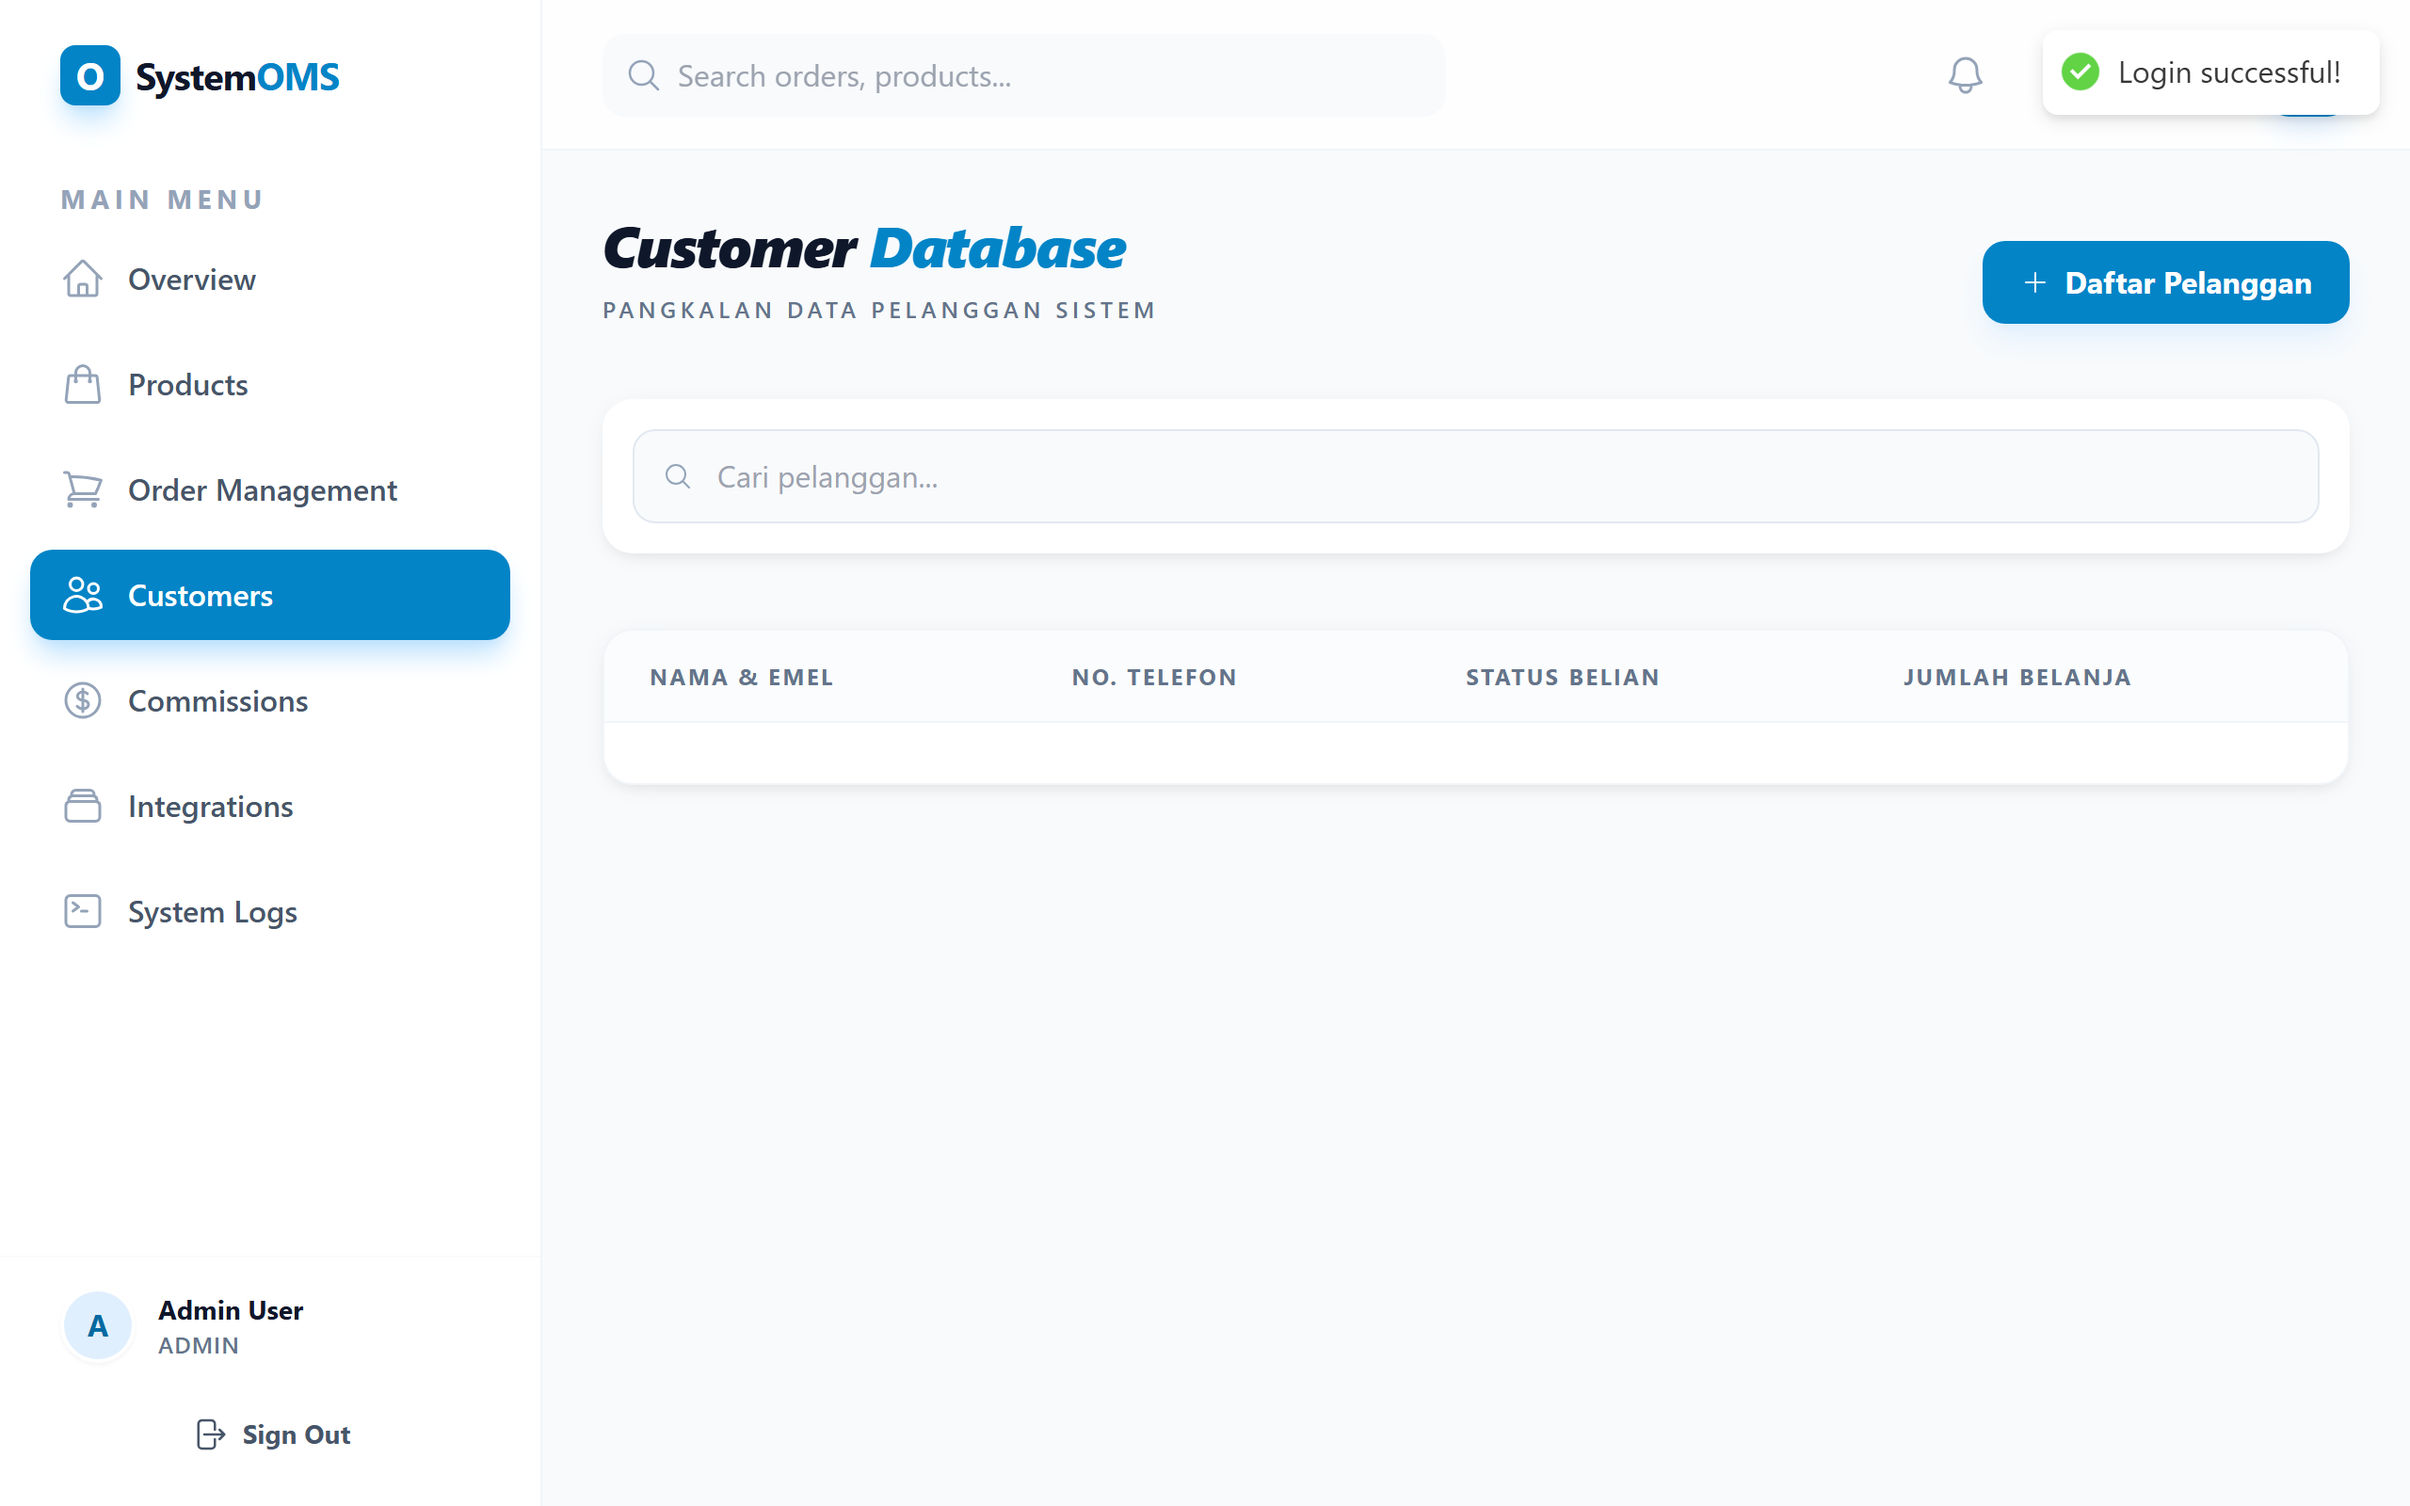
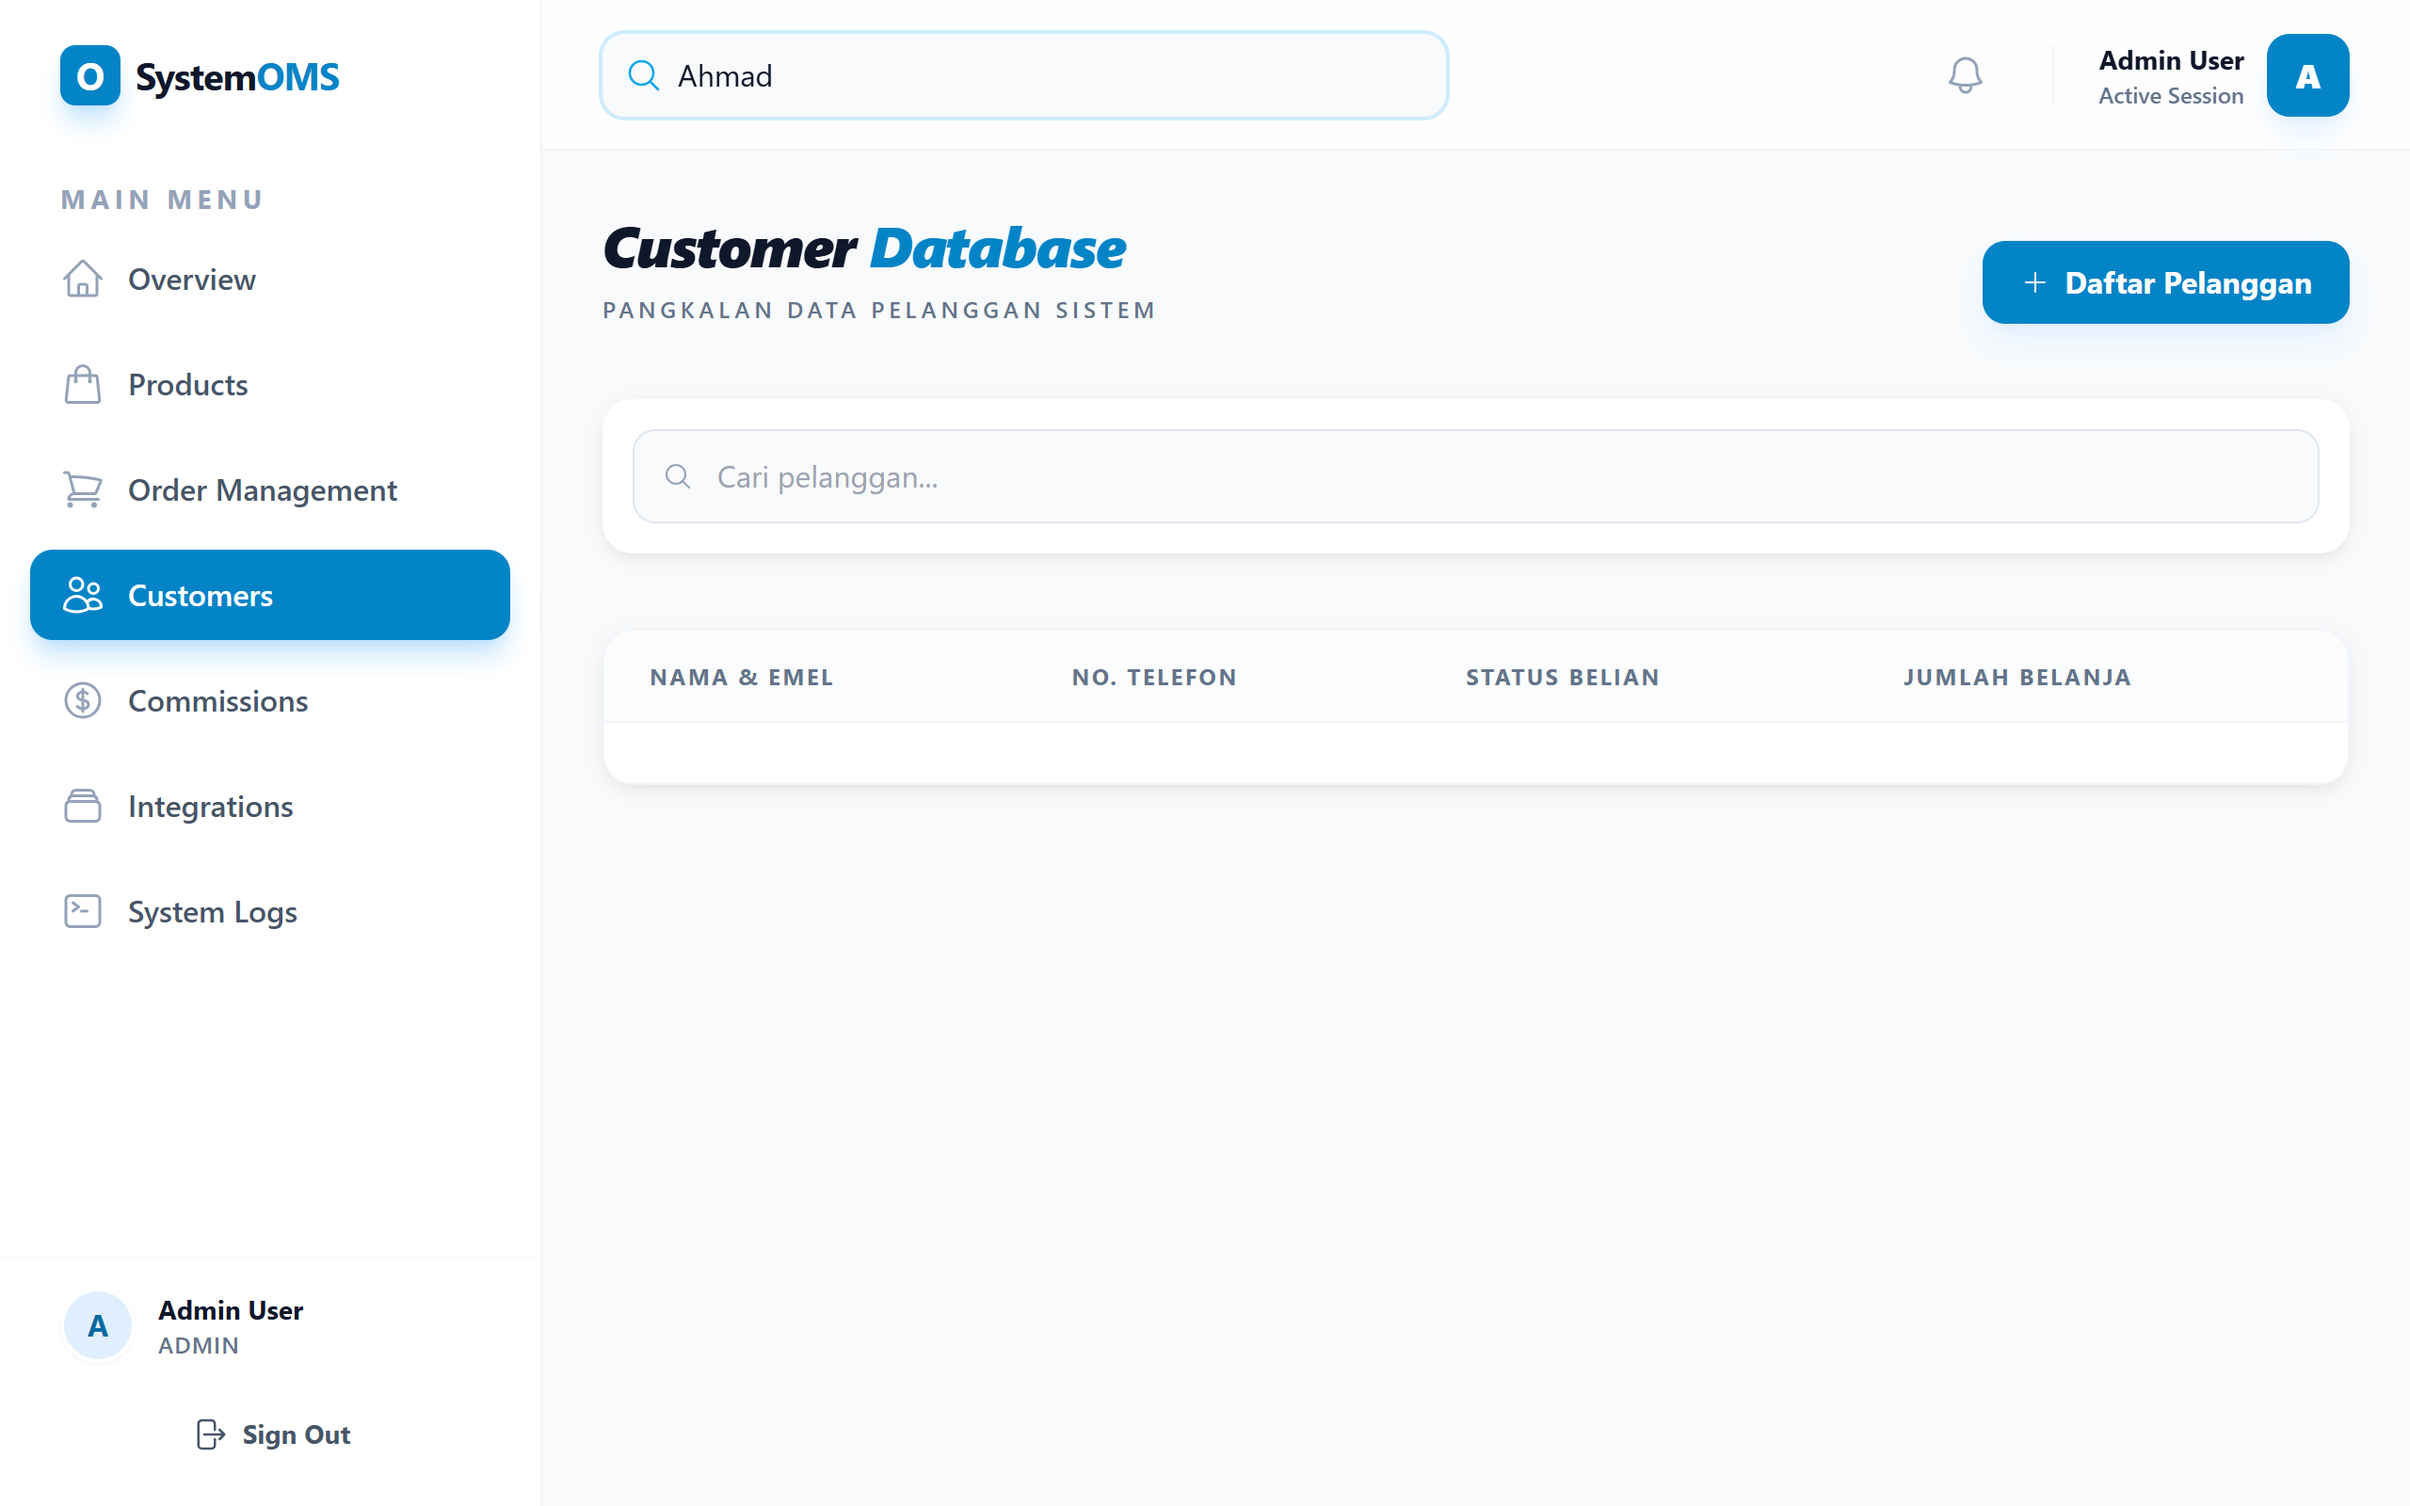
feat: update screenshots to show functionality and interactions in use

Changed region(s): [[0.8438, 0.0, 1.0, 0.0938], [0.2812, 0.0312, 0.4062, 0.0625]]

diff --git a/tests/screenshots.spec.js b/tests/screenshots.spec.js
@@ -58,21 +58,41 @@ test.describe('Visual Documentation Screenshots', () => {
       await takeCleanScreenshot(page, '01-dashboard.png');
     });
 
-    test('Capture Products Page and Add Product Modal', async ({ page }) => {
+    test('Capture Products Page with Interactions', async ({ page }) => {
       await page.click('text=Products');
       await page.waitForURL('/products');
+      
+      // Hover over a product card to show actions
+      const productCard = page.locator('.premium-card, [class*="card"]').first();
+      await productCard.hover();
+      await page.waitForTimeout(500);
       await takeCleanScreenshot(page, '02-products-list.png');
 
+      // Open Add Product Modal with form filled
       await page.click('text=Tambah Item');
       await page.waitForSelector('text=Tambah Produk');
+      
+      // Fill the form to show functionality
+      await page.fill('input[placeholder*="name"], input[placeholder*="Name"], input[placeholder*="nama"]', 'MacBook Pro M3 2024');
+      await page.fill('input[placeholder*="price"], input[placeholder*="Price"], input[placeholder*="harga"]', '8999');
+      await page.fill('input[placeholder*="stock"], input[placeholder*="Stock"], input[placeholder*="stok"]', '15');
+      
       await page.waitForTimeout(500);
       await takeCleanScreenshot(page, '03-add-product-modal.png');
       await page.keyboard.press('Escape');
     });
 
-    test('Capture Orders Page and Order Detail', async ({ page }) => {
+    test('Capture Orders Page with Filters and Detail', async ({ page }) => {
       await page.click('text=Order Management');
       await page.waitForURL('/orders');
+      
+      // Click filter dropdown to show filtering options
+      const filterButton = page.locator('select, button:has-text("Filter"), button:has-text("Status")').first();
+      if (await filterButton.isVisible()) {
+        await filterButton.click();
+        await page.waitForTimeout(300);
+      }
+      
       await takeCleanScreenshot(page, '04-orders-list.png');
 
       // Ensure at least one order exists and click detail
@@ -81,26 +101,90 @@ test.describe('Visual Documentation Screenshots', () => {
       await detailButton.click();
       
       await page.waitForSelector('text=Order #', { timeout: 10000 });
-      await page.waitForTimeout(1000); // Wait for animations/data
+      await page.waitForTimeout(1000);
+      
+      // Hover over status update button to show interaction
+      const statusButton = page.locator('button:has-text("Update Status"), button:has-text("Change Status")').first();
+      if (await statusButton.isVisible()) {
+        await statusButton.hover();
+        await page.waitForTimeout(300);
+      }
+      
       await takeCleanScreenshot(page, '05-order-detail.png');
     });
 
-    test('Capture Customers Page', async ({ page }) => {
+    test('Capture Customers Page with Search', async ({ page }) => {
       await page.click('text=Customers');
       await page.waitForURL('/customers');
+      
+      // Use search to show functionality
+      const searchInput = page.locator('input[placeholder*="Search"], input[type="search"]').first();
+      if (await searchInput.isVisible()) {
+        await searchInput.fill('Ahmad');
+        await searchInput.press('Enter');
+        await page.waitForTimeout(800);
+      }
+      
+      // Hover over a customer row to show actions
+      const customerRow = page.locator('tr, [class*="card"]').nth(1);
+      if (await customerRow.isVisible()) {
+        await customerRow.hover();
+        await page.waitForTimeout(300);
+      }
+      
       await takeCleanScreenshot(page, '06-customers.png');
     });
 
-    test('Capture Commissions Page', async ({ page }) => {
+    test('Capture Commissions Page with Active Tab', async ({ page }) => {
       await page.click('text=Commissions');
       await page.waitForURL('/commissions');
+      
+      // Click on transactions tab to show data
+      const transactionsTab = page.locator('button:has-text("Transactions"), button:has-text("Transaction"), text=Transaction').first();
+      if (await transactionsTab.isVisible()) {
+        await transactionsTab.click();
+        await page.waitForTimeout(500);
+      }
+      
+      // Hover over approve button to show action
+      const approveButton = page.locator('button:has-text("Approve"), button:has-text("approve")').first();
+      if (await approveButton.isVisible()) {
+        await approveButton.hover();
+        await page.waitForTimeout(300);
+      }
+      
       await takeCleanScreenshot(page, '07-commissions.png');
     });
 
-    test('Capture Integrations Page', async ({ page }) => {
+    test('Capture Integrations Page with API Config Modal', async ({ page }) => {
       await page.click('text=Integrations');
       await page.waitForURL('/channels');
+      
+      // Hover over Sync button to show interaction
+      const syncButton = page.locator('button:has-text("Sync"), button:has-text("sync")').first();
+      if (await syncButton.isVisible()) {
+        await syncButton.hover();
+        await page.waitForTimeout(300);
+      }
+      
       await takeCleanScreenshot(page, '08-integrations.png');
+      
+      // Open configuration modal for one channel
+      const configButton = page.locator('button[title*="Configure"], button:has([class*="cog"]), button:has([class*="Cog"])').first();
+      if (await configButton.isVisible()) {
+        await configButton.click();
+        await page.waitForSelector('text=Configure', { timeout: 3000 });
+        await page.waitForTimeout(500);
+        
+        // Fill some example data
+        const endpointInput = page.locator('input[placeholder*="endpoint"], input[placeholder*="URL"]').first();
+        if (await endpointInput.isVisible()) {
+          await endpointInput.fill('https://partner.shopeemobile.com/api/v1');
+        }
+        
+        await takeCleanScreenshot(page, '09-api-config-modal.png');
+        await page.keyboard.press('Escape');
+      }
     });
 
     test('Capture Notifications and Search UI', async ({ page }) => {
